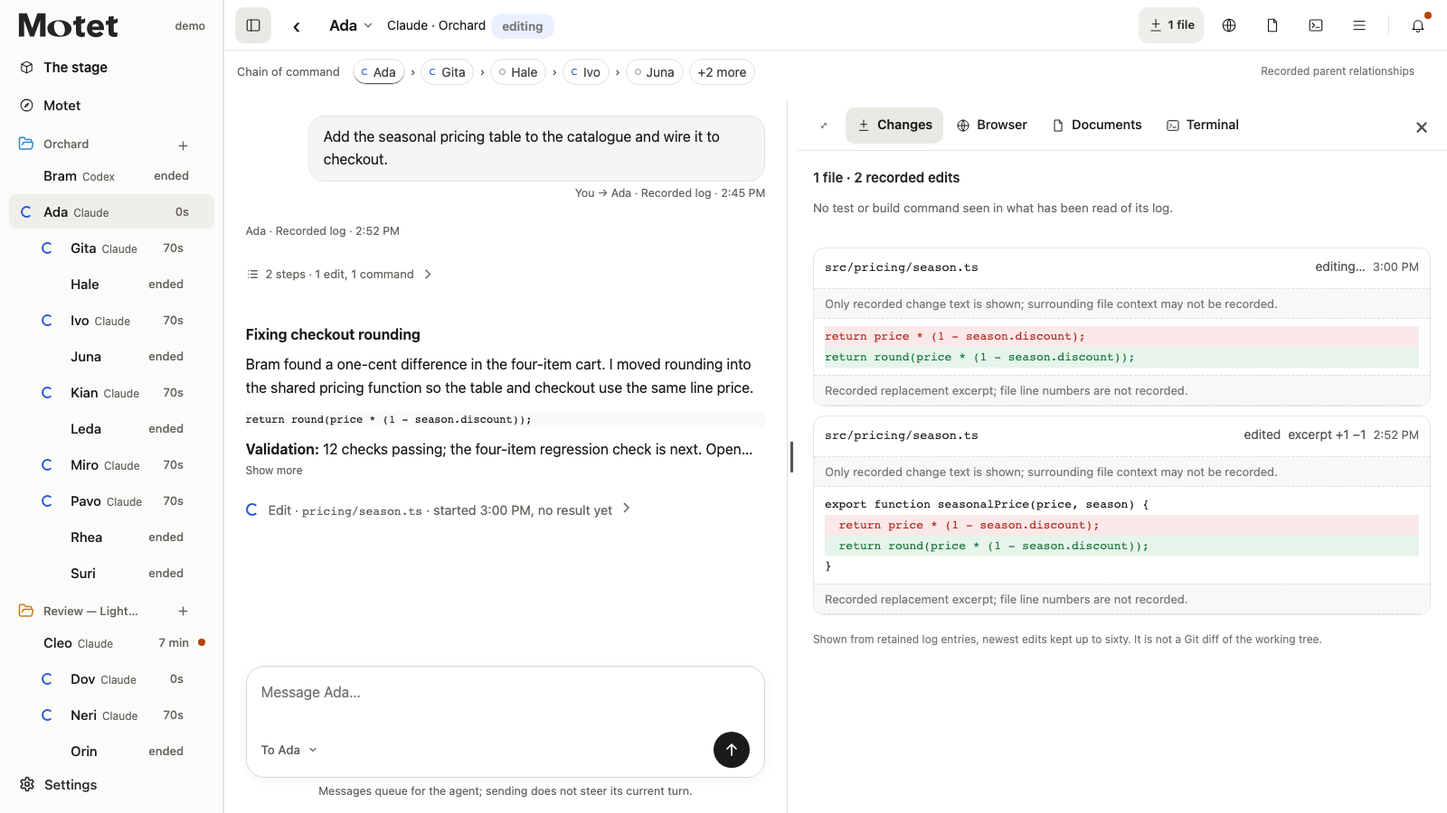
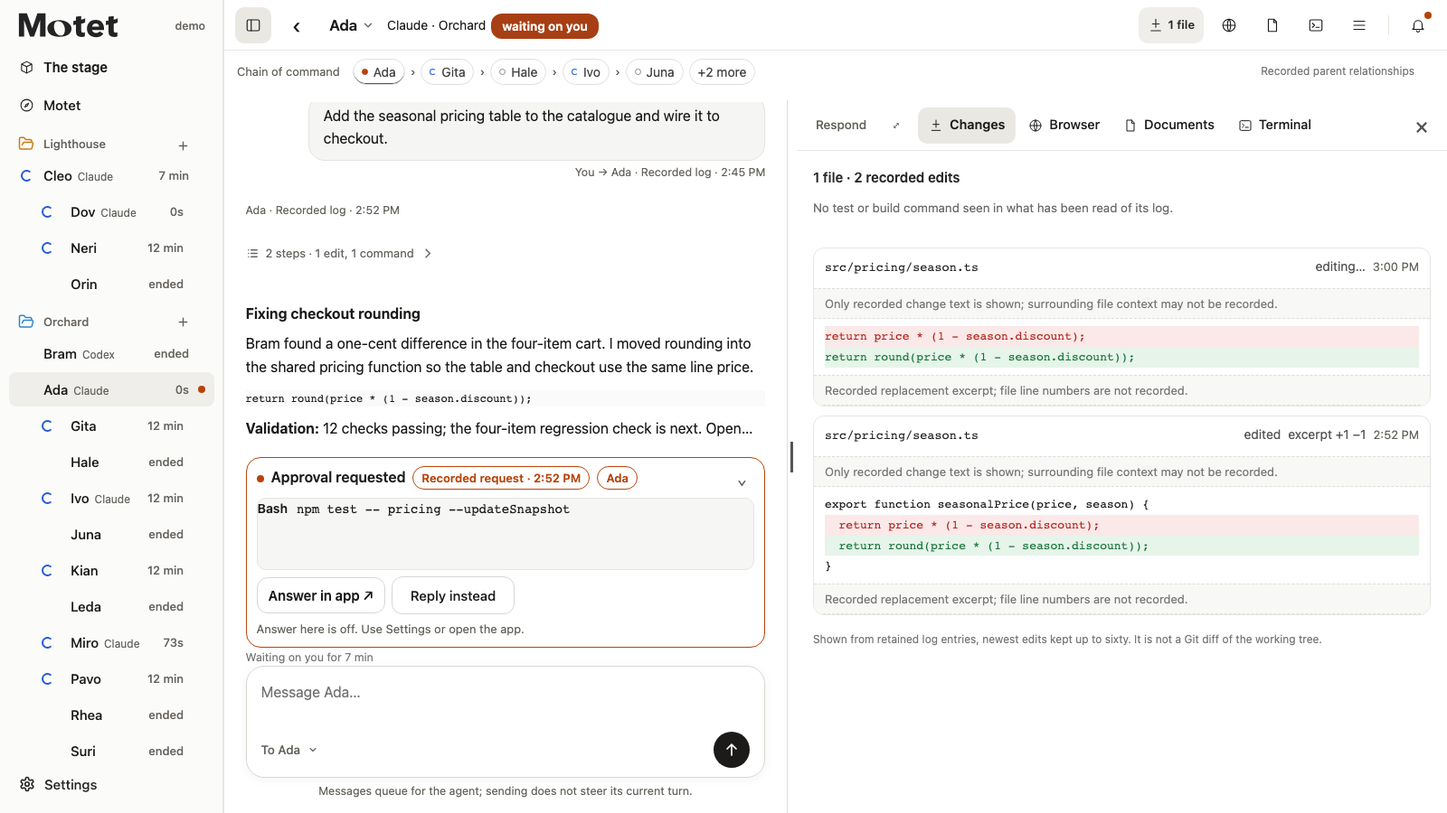
Keep demo shift evidence and move pricing approval to Ada

diff --git a/src/web/index.html b/src/web/index.html
@@ -3061,13 +3061,13 @@ function permissionDispatch(a,p,allow){if(typeof workspaceManagedLegacyAllowed==
       if(DEMO){const now=()=>Date.now()/1000, H=o=>handle(Object.assign({agent:id,ts:now(),seq:++DSEQ},o)), after=(ms,f)=>setTimeout(()=>{f(); render()},ms);      /* numbered from the same counter as the demo's history, so the Officer's chips can cite these too */      /* nothing leaves the page: the request ends here and the fictional agent carries on for a while */
         note((allow?'Allowed':'Denied')+' from here'); render();
         after(600,()=>{H({kind:'perm_end',pid:p.pid,how:(allow?'allowed':'denied')+' from the stage'});
-          if(allow) H({kind:'run',id:'c9',cmd:'rm -rf build/ && make nightly ARCH=arm64 CRC=soft',why:'rebuild with the soft CRC path'});
-          else{H({kind:'say',text:'Understood, I will not clear the build directory. I will try an out-of-tree build in /tmp instead and report back.'}); H({kind:'turn_end'})}});
+          if(allow) H({kind:'run',id:'a-permission-check',cmd:'npm test -- pricing --updateSnapshot',why:'refresh the seasonal pricing snapshot'});
+          else{H({kind:'say',text:'Understood, I will leave the pricing snapshots unchanged and report the pending four-item regression check for review.'}); H({kind:'turn_end'})}});
         if(allow){
-          after(4000,()=>{H({kind:'result',id:'c9',text:'…\nlinking nightly (arm64, CRC=soft)\nok'}); H({kind:'say',text:'Linked. The nightly builds on arm64 with CRC=soft. Now making that the default for arm64 targets so the fast path is only used where the symbol exists.'})});
-          after(7000,()=>H({kind:'edit',id:'c10',path:'/Users/demo/Projects/Lighthouse/Makefile',before:'CRC ?= hw',after:'CRC ?= $(if $(filter arm64,$(ARCH)),auto,hw)'}));
-          after(9500,()=>{H({kind:'result',id:'c10',text:'ok'}); H({kind:'run',id:'c11',cmd:'make nightly ARCH=arm64',why:'confirm the default links'})});
-          after(13000,()=>{H({kind:'result',id:'c11',text:'linking nightly (arm64, CRC=auto)\nok'}); H({kind:'say',text:'Done. arm64 now defaults to CRC=auto and the nightly links cleanly; the diff is one line in the Makefile. Ready for a pull request when you are.'}); H({kind:'turn_end'})});
+          after(4000,()=>{H({kind:'result',id:'a-permission-check',text:'12 passing, 1 pending; seasonal pricing snapshot refreshed'}); H({kind:'say',text:'The pricing snapshot now records $67.96. I am enabling the pending four-item regression check before verifying the suite again.'})});
+          after(7000,()=>H({kind:'edit',id:'a-permission-enable',path:'/Users/demo/Projects/Orchard/test/pricing.test.ts',before:"it.skip('four discounted items', checkCart);",after:"it('four discounted items', checkCart);"}));
+          after(9500,()=>{H({kind:'result',id:'a-permission-enable',text:'Enabled the four-item regression check.'}); H({kind:'run',id:'a-permission-verify',cmd:'npm test -- pricing',why:'verify the enabled pricing regression'})});
+          after(13000,()=>{a.demoPricingVerified=true;H({kind:'result',id:'a-permission-verify',text:'13 passing, including the four-item regression check'}); H({kind:'say',text:'The pricing suite passes all 13 checks. Four discounted items total $67.96 in both views. The recorded pricing change is ready for review.'}); H({kind:'turn_end'})});
         }
         return}
       return post('/decide',{pid:p.pid,allow}).then(r=>{if(!r.ok){if(r.status===409||r.status===404)note(r.status===409?'Already answered in another window.':'This request has expired.');else{p.uncertain=true;note('Outcome unknown. Check the app before trying again.')}}}).catch(()=>{p.uncertain=true;note('Outcome unknown. Check the app before trying again.')});
@@ -5890,11 +5890,10 @@ function ofDemoAnswer(q,request){      /* the demo's Officer: four scripted answ
     if(today==='deploy') return {text:"Esme said her migration will run through `alembic upgrade head`. The stage already flags **alembic upgrade** as a deploy (that is your rule), so there is nothing to draft.",cites,actions};
     actions.push({do:'watch_draft',words:'alembic upgrade',label:'deploy'});
     return {text:`Esme said her migration will run through \`alembic upgrade head\`, which the stage would ${today?'flag as '+today:'not flag'} today.\n\nI drafted a rule to flag **alembic upgrade** as a deploy. It is in the Watch panel with a **Keep this rule** button; nothing is saved until you press it.`,cites,actions}}
-  if(/wait|need|ask|permission|\bme\b/.test(low)){needs.forEach(([a])=>cite(a,lastOf(a)));
+  if(/wait|need|ask|permission|\bme\b/.test(low)){needs.forEach(([a,N])=>cite(a,N.perm||lastOf(a)));
     return {text:`## Waiting on you\n${list}\n\nEveryone else is working or finished.`,cites,actions}}
   if(/stuck|slow|hang|fail|wrong/.test(low)){const cleo=who.find(a=>a.name==='Cleo'), dov=who.find(a=>a.name==='Dov'), dot=who.find(a=>a.runtime==='Codex cloud'); [cleo,dov,dot].forEach(a=>a&&cite(a,lastOf(a)));
-    const held=cleo&&Object.keys(cleo.perms||{}).length, st=cleo?cleo.story:[], endedAt=st.findLastIndex(x=>x.t==='wait'&&/^permission: /.test(x.text)), retryAt=st.findLastIndex(x=>x.t==='did'&&x.e.kind==='run'&&/CRC=soft/.test(x.e.cmd)), ended=st[endedAt], retry=st[retryAt];      /* whichever the record says last */
-    const cleoNow=held?'She is waiting on your permission to clear the build folder and retry with `CRC=soft`.':retryAt>endedAt?(cleo.calls&&cleo.calls[retry.e.id]?'You allowed the retry; `make nightly ARCH=arm64 CRC=soft` is running now.':retry.e.err?'You allowed the retry and it failed too.':'You allowed the retry; it ran, and the log records no error.'):ended?(/denied/.test(ended.text)?'You denied the clean rebuild; she said she would try an out-of-tree build instead.':'You allowed it; what came next is not recorded yet.'):'Her request ended; what came next is not recorded yet.';
+    const cleoNow='She is investigating the feature guard and configure probe. `CRC=soft` is a proposed fallback; no successful rebuild is recorded.';
     const dotRun=dot&&[...dot.story].reverse().find(x=>x.t==='did'&&x.e.kind==='run'), dotOpen=dotRun&&dot.calls&&dot.calls[dotRun.e.id];
     return {text:`Nothing is stuck. One thing **failed**:\n\n- **Cleo**'s \`make nightly ARCH=arm64\` ended with a linker error (\`_crc32_hw\` missing). ${cleoNow}\n\nTwo things are *long*, not stuck:\n\n1. **Dov** has been reading nightly logs for Cleo${dov?' ('+agoW(dov.story[0]?dov.story[0].ts:nowS).replace(' ago','')+' so far)':''}.\n2. **Codex cloud**'s \`${dotRun?one(dotRun.e.cmd).slice(0,40):'command'}\` ${dotOpen?'is still running, seen in the process list; whether it finished is not recorded here':'was seen in the process list; its outcome is not recorded here'}.`,cites,actions}}
   if(/miss|happen|since|report|away|summary|shift|what/.test(low)){const rows=who.map(a=>{const it=lastOf(a); cite(a,it); return `| **${a.name}** | ${projLabel(proj(a.id))||'—'} | ${words(a,it)} | ${it?agoW(it.ts):'—'} |`}).join('\n');
@@ -5918,7 +5917,6 @@ function demo(){
   setInterval(()=>{HEALTH.at=now(); HEALTH.now=now(); HEALTH.scan=now()},3000);
   const tag=document.createElement('span'); tag.id='demoTag'; tag.textContent='DEMO · synthetic agents · nothing here is real'; $('#brand').after(tag);
   const P={orchard:'/Users/demo/Projects/Orchard',lighthouse:'/Users/demo/Projects/Lighthouse',tidewater:'/Users/demo/Projects/Tidewater'};
-  SNAMES.Lighthouse='Review — Lighthouse'; // A fictional display name; keep the build folder and history intact.
   const ag=(id,o)=>handle(Object.assign({kind:'agent',agent:id,ts:t,started:o.started||t},o));
   const ev=(id,o)=>handle(Object.assign({agent:id,ts:t,seq:++DSEQ},o));
   /* the fleet */
@@ -5950,10 +5948,11 @@ function demo(){
   const historyAt=t;
   for(const [name,parent,task,goal,file,result,summary,ended] of children){
     const id='c:demo-'+name.toLowerCase(),owner=parent==='cleo'?P.lighthouse:parent==='esme'||parent==='fen'?P.tidewater:P.orchard;
-    t=now()-75;
+    t=now()-780; // Routine history precedes the core shift facts in the bounded evidence window.
     ag(id,{name,runtime:'Claude',model:'claude-sonnet-5-5',cwd:owner,parent:(parent==='bram'||parent==='esme'?'x:':'c:')+'demo-'+parent,sub:true,task,goal,ctx:17000});
     ev(id,{kind:'user',text:goal});
     ev(id,{kind:'read',id:'sample-'+name,path:owner+'/'+file}); t+=3;
+    if(name==='Leda'||name==='Miro') t=now()-75; // These findings follow Ada's recorded rounding fix.
     ev(id,{kind:'result',id:'sample-'+name,text:result}); t+=2;
     ev(id,{kind:'say',text:summary});
     if(ended) ev(id,{kind:'turn_end'});
@@ -5977,11 +5976,11 @@ function demo(){
   ev('c:demo-cleo',{kind:'say',text:'The nightly fails at link time on arm64: _crc32_hw is missing. I will have a sub-agent find the first run that failed while I check whether the crc32 fast path was switched on recently.'}); t+=3;
   ev('c:demo-cleo',{kind:'spawn',id:'c2',name:'log search'}); ev('c:demo-dov',{kind:'user',text:'Search the build logs for the first arm64 failure and report the line.'}); t+=3;
   ev('c:demo-dov',{kind:'read',id:'d1',path:'/Users/demo/Projects/Lighthouse/build/nightly-2026-10-05.log'}); t+=4; ev('c:demo-dov',{kind:'result',id:'d1',text:'…'}); t+=10;
-  ev('c:demo-cleo',{kind:'say',text:'The symbol comes from the crc32 fast path; building with CRC=soft should link. I need to clear the build directory first, which is why I am asking before I run it.'}); t+=2;
-  ev('c:demo-cleo',{kind:'perm',pid:'demo-c3',tool:'Bash',text:'rm -rf build/ && make nightly ARCH=arm64 CRC=soft'});      /* a held request: with the switch on, Allow and Deny are shown at the desk and answered on the page */
+  ev('c:demo-cleo',{kind:'say',text:'The symbol comes from the crc32 fast path. CRC=soft is a candidate fallback. I am comparing the feature guard with the configure probe before choosing a fix.'}); t+=2;
   ev('c:demo-ada',{kind:'edit',id:'a-seed',path:P.orchard+'/src/pricing/season.ts',before:'export function seasonalPrice(price, season) {\n  return price * (1 - season.discount);\n}',after:'export function seasonalPrice(price, season) {\n  return round(price * (1 - season.discount));\n}'}); t+=3; ev('c:demo-ada',{kind:'result',id:'a-seed',text:'Updated shared seasonal pricing function.'}); t+=2;
   ev('c:demo-ada',{kind:'run',id:'a0',cmd:'npm test -- pricing',why:'run the pricing tests'}); t+=12; ev('c:demo-ada',{kind:'result',id:'a0',text:'12 passing, 1 pending'}); t+=5;
   ev('c:demo-ada',{kind:'say',text:'## Fixing checkout rounding\n\nBram found a one-cent difference in the four-item cart. I moved rounding into the shared pricing function so the table and checkout use the same line price.\n\n```ts\nreturn round(price * (1 - season.discount));\n```\n\n**Validation:** 12 checks passing; the four-item regression check is next. Open **Work → Changes** to inspect the recorded edit.'}); t+=4;
+  ev('c:demo-ada',{kind:'perm',pid:'demo-a3',tool:'Bash',text:'npm test -- pricing --updateSnapshot'});      /* a held request: answers stay on this fictional page */
   // Keep the default demo evidence stable. The Steps preview adds a longer fictional run.
   if(/[?&]steps=preview(?:&|$)/.test(location.search)){
     ev('c:demo-ada',{kind:'web',id:'a-web',q:'rounding half-cent values'}); t+=1;
@@ -6000,10 +5999,11 @@ function demo(){
   let n=0; const files=['src/pricing/table.ts','src/pricing/season.ts','src/checkout/total.ts','test/pricing.test.ts'], logs=['nightly-2026-10-05.log','nightly-2026-10-04.log','nightly-2026-10-03.log'];
   const ADA=['The shared `season.ts` edit is recorded. Next I am checking the table and checkout callers.','The pending test was the four-item cart. Running the pricing suite again with the per-line rounding.','Thirteen passing. Next: wire the table into the checkout total so the cart uses the rounded line prices.','## Pricing checks pass\n\n**13 passing**, including the four-item regression check.\n\n- The table and checkout share per-line rounding.\n- Four discounted items total **$67.96** in both views.\n- I am checking the remaining callers before handing this back for review.'];
   const tick=()=>{t=now(); n++;
-    if(n%4===3&&(n/4|0)<ADA.length){ev('c:demo-ada',{kind:'say',text:ADA[n/4|0]})}      /* narration as it unfolds: a synthetic line every fourth tick, each once */
+    const verified=!!A['c:demo-ada']?.demoPricingVerified;
+    if(n%4===3&&(n/4|0)<ADA.length){ev('c:demo-ada',{kind:'say',text:verified?ADA[n/4|0]:'The pricing suite records 12 passing and 1 pending. I am checking the existing table and checkout callers without updating the snapshots.'})}      /* progress follows the approved verification result */
     if(n===7){ev('c:demo-dov',{kind:'say',text:'The 04 run linked fine, so the break is between the 03 and 05 runs. Checking what changed in the crc32 build flags between them.'})}
     if(n%2){ev('c:demo-ada',{kind:n%4===1?'edit':'run',id:'a'+n,path:'/Users/demo/Projects/Orchard/'+files[n%4],cmd:'npm test -- pricing',why:n%4===1?'':'run the pricing tests',before:'return price * (1 - season.discount);',after:'return round(price * (1 - season.discount));'})}
-    else{ev('c:demo-ada',{kind:'result',id:'a'+(n-1),text:n%4===2?'ok':'13 passing'})}
+    else{ev('c:demo-ada',{kind:'result',id:'a'+(n-1),text:n%4===2?'ok':verified?'13 passing':'12 passing, 1 pending'})}
     if(n%3===0){ev('c:demo-dov',{kind:'read',id:'d'+n,path:'/Users/demo/Projects/Lighthouse/build/'+logs[(n/3|0)%3]})} else if(n%3===1){ev('c:demo-dov',{kind:'result',id:'d'+(n-1),text:'… [arm64] ld: symbol not found: _crc32_hw'})}
     if(n%9===4){if(n===4) ev('c:demo-dov',{kind:'say',text:'First arm64 failure is in nightly-2026-10-03.log line 1142: ld: symbol not found: _crc32_hw. It appears after the crc32 fast path was enabled.'}); pulse('c:demo-dov','c:demo-cleo','reported back')}      /* said once; the hand-off pulse recurs */
   };

diff --git a/tests/test_page.js b/tests/test_page.js
@@ -4171,8 +4171,8 @@ let quietProofDeadline;(async()=>{
 {
   const assert=require('assert/strict'),start=html.indexOf('function demo(){'),end=html.indexOf('/* Workspace shell helpers:',start),demoSource=html.slice(start,end);
   const expected=['Ada','Bram','Cleo','Dov','Esme','Codex cloud','Fen','Gita','Hale','Ivo','Juna','Kian','Leda','Miro','Neri','Orin','Pavo','Rhea','Suri','Tavi','Uma','Vero'];
-  function verify(source){
-    const events=[],intervals=[],forbidden=()=>{throw Error('demo attempted a live effect')},c={Date:class extends Date{static now(){return 1800000000000}},DSEQ:0,location:{search:'?demo'},SNAMES:{},document:{createElement:()=>({})},$:()=>({after(){}}),paintWatch(){},lock(){},handle:e=>events.push(e),setInterval:(f,ms)=>intervals.push({f,ms}),setTimeout:forbidden,fetch:forbidden,XMLHttpRequest:forbidden,WebSocket:forbidden,EventSource:forbidden,Notification:forbidden,navigator:new Proxy({},{get:forbidden})};
+  function verify(source,storyHtml=html){
+    const events=[],intervals=[],forbidden=()=>{throw Error('demo attempted a live effect')},c={Date:class extends Date{static now(){return 1800000000000}},DSEQ:0,location:{search:'?demo'},SNAMES:{},document:{createElement:()=>({})},$:()=>({after(){}}),paintWatch(){},lock(){},A:{},handle:e=>{events.push(e);if(e.kind==='agent')c.A[e.agent]={...e}},setInterval:(f,ms)=>intervals.push({f,ms}),setTimeout:forbidden,fetch:forbidden,XMLHttpRequest:forbidden,WebSocket:forbidden,EventSource:forbidden,Notification:forbidden,navigator:new Proxy({},{get:forbidden})};
     vm.runInNewContext(source+';demo();',c);
     const agents=events.filter(e=>e.kind==='agent'),byId=new Map(agents.map(a=>[a.agent,a])),roots=agents.filter(a=>!a.parent),kids=agents.filter(a=>a.parent);
     assert.equal(agents.length,22);assert.equal(byId.size,22);assert.equal(roots.length,6);assert.equal(kids.length,16);
@@ -4194,21 +4194,53 @@ let quietProofDeadline;(async()=>{
     const ended=new Set(events.filter(e=>e.kind==='turn_end').map(e=>e.agent));
     assert.deepEqual(agents.filter(a=>ended.has(a.agent)).map(a=>a.name).sort(),['Bram','Esme','Fen','Hale','Juna','Leda','Orin','Rhea','Suri','Uma']);
     assert.equal(agents.length-ended.size,12);assert.equal(agents.filter(a=>a.observed).length,1);
-    assert.equal(c.SNAMES.Lighthouse,'Review — Lighthouse');
+    assert.equal(c.SNAMES.Lighthouse,undefined);
     assert.equal(c.HEALTH.tails,21);assert.equal(events.filter(e=>e.kind==='health').at(-1).tails,21);
     assert.equal(events.filter(e=>e.error).length,1,'Cleo remains the sole recorded failure');
-    assert.deepEqual(events.filter(e=>e.kind==='perm').map(e=>e.agent),['c:demo-cleo']);
+    assert.deepEqual(events.filter(e=>e.kind==='perm').map(e=>e.agent),['c:demo-ada']);
     assert.equal(events.filter(e=>e.kind==='say'&&/\?/.test(e.text)).length,1,'Esme remains the sole possible decision request');
     const A={};for(const a of agents)A[a.agent]={...a,id:a.agent,story:[],calls:{},perms:{},asks:{},turn:'in'};
     for(const e of events){const a=A[e.agent];if(!a||e.kind==='agent')continue;if(e.kind==='result'){const it=a.story.find(x=>x.e?.id===e.id);if(it){it.e.err=e.error;it.e.unknown=e.unknown;}delete a.calls[e.id];}else if(e.kind==='say'){a.said={text:e.text,ts:e.ts};a.story.push({t:'say',...e});}else if(e.kind==='turn_end')a.turn='ended';else if(e.kind==='perm'){a.perms[e.pid]=e;a.story.push({t:'wait',text:'permission: '+e.text,...e});}else if(e.kind!=='user'){a.story.push({t:'did',e,ts:e.ts,seq:e.seq});if(e.id)a.calls[e.id]=e;}}
-    const answerSource=html.slice(html.indexOf('function ofDemoAnswer('),html.indexOf('\nfunction ofToggle(',html.indexOf('function ofDemoAnswer(')));
-    const answer=vm.runInNewContext(answerSource+';ofDemoAnswer',{A,order:agents.map(a=>a.agent),Date:c.Date,one:s=>String(s).replace(/\s+/g,' '),plain:String,did:e=>e.kind+' '+(e.path||''),clock:String,proj:id=>A[id].cwd.split('/').at(-1),projLabel:String,judgeLocal:()=>({command:''}),need:a=>Object.keys(a.perms).length?{sure:true,kind:'Approve',text:Object.values(a.perms)[0].text}:a.name==='Esme'?{sure:false,kind:'Decide',text:a.said.text}:null});
+    const answerSource=storyHtml.slice(storyHtml.indexOf('function ofDemoAnswer('),storyHtml.indexOf('\nfunction ofToggle(',storyHtml.indexOf('function ofDemoAnswer(')));
+    const answer=vm.runInNewContext(answerSource+';ofDemoAnswer',{A,order:agents.map(a=>a.agent),Date:c.Date,one:s=>String(s).replace(/\s+/g,' '),plain:String,did:e=>e.kind+' '+(e.path||''),clock:String,proj:id=>A[id].cwd.split('/').at(-1),projLabel:String,judgeLocal:()=>({command:''}),need:a=>Object.keys(a.perms).length?{sure:true,kind:'Approve',text:Object.values(a.perms)[0].text,perm:Object.values(a.perms)[0]}:a.name==='Esme'?{sure:false,kind:'Decide',text:a.said.text}:null});
     const report=answer('What did I miss?');for(const name of expected)assert.ok(report.text.includes('**'+name+'**'));assert.ok(report.cites.length<=12);
-    const stuck=answer('Is anything stuck?');assert.match(stuck.text,/One thing \*\*failed\*\*/);assert.match(stuck.text,/outcome|whether it finished/);assert.match(stuck.text,/waiting on your permission/);
-    const waiting=answer('Who is waiting on me?');assert.match(waiting.text,/\*\*Cleo\*\*/);assert.match(waiting.text,/\*\*Esme\*\* probably/);assert.equal((waiting.text.match(/- \[ \]/g)||[]).length,2);
+    const stuck=answer('Is anything stuck?');assert.match(stuck.text,/One thing \*\*failed\*\*/);assert.match(stuck.text,/outcome|whether it finished/);assert.match(stuck.text,/proposed fallback/);assert.doesNotMatch(stuck.text,/waiting on your permission|Her request ended|You allowed the retry/);
+    const waiting=answer('Who is waiting on me?');assert.match(waiting.text,/\*\*Ada\*\*/);assert.doesNotMatch(waiting.text,/\*\*Cleo\*\*/);assert.equal(waiting.cites.find(c=>c.aid==='c:demo-ada').n,events.find(e=>e.pid==='demo-a3').seq,'held permission evidence survives later Ada edits');assert.match(waiting.text,/\*\*Esme\*\* probably/);assert.equal((waiting.text.match(/- \[ \]/g)||[]).length,2);
+    const permission=events.find(e=>e.kind==='perm');assert.equal(permission.pid,'demo-a3');assert.equal(permission.text,'npm test -- pricing --updateSnapshot');
+    const dispatch=storyHtml.slice(storyHtml.indexOf('function permissionDispatch('),storyHtml.indexOf('/* end permission dispatch */'));
+    for(const allow of [false,true]){
+      const history=[],timers=[],p={...permission},a={id:permission.agent,perms:{[p.pid]:p}},ctx={DEMO:true,DSEQ:999,Date:c.Date,handle:e=>history.push(e),render(){},need:()=>({perm:p}),setTimeout:(f,ms)=>timers.push({f,ms}),post:forbidden};
+      vm.runInNewContext(dispatch+';permissionDispatch',ctx)(a,p,allow);
+      assert.deepEqual(timers.map(t=>t.ms),allow?[600,4000,7000,9500,13000]:[600]);
+      for(const timer of timers)timer.f();
+      assert.equal(history[0].kind,'perm_end');assert.equal(history[0].pid,'demo-a3');assert.equal(history[0].how,(allow?'allowed':'denied')+' from the stage');assert.ok(history.every(e=>e.agent==='c:demo-ada'));
+      assert.equal(history.at(-1).kind,'turn_end');assert.doesNotMatch(JSON.stringify(history),/Lighthouse|CRC=|make nightly|clear the build/);
+      if(allow){assert.deepEqual(history.filter(e=>e.kind==='run').map(e=>e.cmd),['npm test -- pricing --updateSnapshot','npm test -- pricing']);assert.equal(history.find(e=>e.kind==='edit').path,'/Users/demo/Projects/Orchard/test/pricing.test.ts');assert.ok(history.some(e=>e.kind==='result'&&/13 passing/.test(e.text)));}
+      else{assert.ok(!history.some(e=>['run','edit'].includes(e.kind)));assert.match(history.find(e=>e.kind==='say').text,/snapshots unchanged/);}
+    }
+    for(const decision of [null,false,true]){
+      const timeline=[],scheduled=[],loops=[],ctx={...c,A:{},DSEQ:0,DEMO:true,render(){},pulse(){},setInterval:(f,ms)=>loops.push({f,ms}),setTimeout:(f,ms)=>scheduled.push({f,ms}),post:forbidden};
+      ctx.handle=e=>{timeline.push(e);if(e.kind==='agent')ctx.A[e.agent]={...e,id:e.agent,perms:{}};else if(e.kind==='perm')ctx.A[e.agent].perms[e.pid]=e;else if(e.kind==='perm_end')delete ctx.A[e.agent].perms[e.pid];};
+      ctx.need=a=>({perm:Object.values(a.perms)[0]});
+      vm.runInNewContext(source+'\n'+dispatch+';demo();',ctx);
+      const tick=loops.find(x=>x.ms===3500).f,ada=ctx.A['c:demo-ada'];
+      if(decision!==null)ctx.permissionDispatch(ada,ada.perms['demo-a3'],decision);
+      for(const ms of [600,3500,4000,7000,9500,10500,13000,14000,17500,21000,24500,28000]){
+        for(const task of scheduled.filter(x=>x.ms===ms))task.f();
+        if([3500,7000,10500,14000,17500,21000,24500,28000].includes(ms))tick();
+        const verified=decision===true&&ms>=13000;
+        assert.equal(!!ada.demoPricingVerified,verified,'verification flag follows the successful13s result');
+        const claims=timeline.filter(e=>e.agent==='c:demo-ada'&&e.text&&/13 passing|Thirteen passing|all 13|Pricing checks pass|snapshot.*(?:refreshed|now records)/i.test(e.text));
+        if(!verified&&!(decision===true&&ms>=4000))assert.equal(claims.length,0,'held/denied ticks cannot invent successful pricing or snapshots');
+        if(!verified)assert.ok(!timeline.some(e=>e.agent==='c:demo-ada'&&e.text&&/13 passing|Thirteen passing|all 13|Pricing checks pass/i.test(e.text)),'thirteen checks require approved verification');
+      }
+      if(decision!==true)assert.ok(!timeline.some(e=>e.agent==='c:demo-ada'&&e.text&&/13 passing|Thirteen passing|all 13|snapshot.*(?:refreshed|now records)/i.test(e.text)));
+      else{const verifiedAt=timeline.findIndex(e=>e.id==='a-permission-verify'&&e.kind==='result');assert.ok(verifiedAt>=0);assert.ok(timeline.slice(verifiedAt).some(e=>e.agent==='c:demo-ada'&&e.text==='13 passing'));assert.ok(!timeline.slice(verifiedAt+1).some(e=>e.agent==='c:demo-ada'&&e.kind==='result'&&e.text==='12 passing, 1 pending'));}
+    }
     const rule=answer('Draft a Watch rule');assert.equal(rule.actions[0].words,'alembic upgrade');assert.match(rule.text,/nothing is saved/);
   }
   verify(demoSource);
-  for(const [from,to] of [['tails:21','tails:22'],['"Gita", "ada"','"Gita", "missing"'],['"Vero", "fen"','"Gita", "fen"']]){assert.ok(demoSource.includes(from));let caught=false;try{verify(demoSource.replaceAll(from,to))}catch{caught=true}assert.ok(caught,'cast mutation detected: '+from);}
-  console.log('ok full fictional demo: 22 IDs, hierarchy, central families, distinct histories, states, health and four scripted answers; three causal mutations');
+  for(const [from,to] of [["const verified=!!A['c:demo-ada']?.demoPricingVerified;",'const verified=true;'],['tails:21','tails:22'],['"Gita", "ada"','"Gita", "missing"'],['"Vero", "fen"','"Gita", "fen"']]){assert.ok(demoSource.includes(from));let caught=false;try{verify(demoSource.replaceAll(from,to))}catch{caught=true}assert.ok(caught,'cast mutation detected: '+from);}
+  for(const [from,to] of [["a.demoPricingVerified=true;H({","H({"],['cite(a,N.perm||lastOf(a))','cite(a,lastOf(a))'],["cmd:'npm test -- pricing --updateSnapshot',why:","cmd:'make nightly ARCH=arm64',why:"]]){assert.ok(html.includes(from));let caught=false;try{verify(demoSource,html.replace(from,to))}catch{caught=true}assert.ok(caught,'permission story mutation detected: '+from);}
+  console.log('ok full fictional demo: 22 IDs, hierarchy, central families, distinct histories, states, health and four scripted answers; seven causal mutations');
 }

diff --git a/tests/test_officer_evals.py b/tests/test_officer_evals.py
@@ -72,10 +72,17 @@ class OfficerEvidenceEvals(unittest.TestCase):
     def test_real_demo_export_is_deterministic_and_has_no_scripted_answers(self):
         self.assertEqual(self.seed, demo_fixture())
         names = [row['name'] for row in self.seed['records'] if row['kind'] == 'agent']
-        self.assertEqual(names, ['Ada', 'Bram', 'Cleo', 'Dov', 'Esme', 'Codex cloud', 'Fen'])
-        self.assertEqual(len(self.seed['records']), 50)   # 49 on main, plus the demo's idle-time health record
+        self.assertEqual(names, ['Codex cloud', 'Bram', 'Ada', 'Cleo', 'Dov', 'Esme', 'Fen',
+                                 'Gita', 'Hale', 'Ivo', 'Juna', 'Kian', 'Leda', 'Miro',
+                                 'Neri', 'Orin', 'Pavo', 'Rhea', 'Suri', 'Tavi', 'Uma', 'Vero'])
+        self.assertEqual(len(self.seed['records']), 132)   # 22 agents, 109 sequenced events, one health record
         self.assertTrue(any(row.get('kind') == 'health' and row.get('idle_ready') is True for row in self.seed['records']))
-        self.assertEqual(max(row.get('seq', 0) for row in self.seed['records']), 42)
+        self.assertEqual(max(row.get('seq', 0) for row in self.seed['records']), 109)
+        edit = next(row for row in self.seed['records'] if row.get('id') == 'a-seed' and row['kind'] == 'edit')
+        for name in ('Leda', 'Miro'):
+            report = next(row for row in self.seed['records']
+                          if row.get('agent') == 'c:demo-' + name.lower() and row['kind'] == 'say')
+            self.assertGreaterEqual(report['ts'], edit['ts'], name + ' verifies the recorded fix afterward')
         self.assertFalse(any(row.get('kind') == 'officer_answer' for row in self.seed['records']))
 
     def test_live_runner_rejects_key_shaped_model_before_call_or_output(self):
@@ -114,13 +121,38 @@ class OfficerEvidenceEvals(unittest.TestCase):
         self.assertIn('only new ones', text)
         agents, _ = self.tool('list_agents')
         by_name = {a['name']: a for a in agents['agents']}
-        self.assertTrue(by_name['Cleo']['waiting_for_owner_permission'])
+        self.assertTrue(by_name['Ada']['waiting_for_owner_permission'])
+        self.assertFalse(by_name['Cleo']['waiting_for_owner_permission'])
         self.assertFalse(by_name['Esme']['waiting_for_owner_permission'])
         self.assertEqual(by_name['Dov']['parent']['how'], 'recorded')
         bram, _ = self.tool('agent_timeline', {'agent': 'Bram', 'limit': 40})
         self.assertTrue(any(s['what'] == 'its turn ended' for s in bram['steps']))
         self.assertTrue(any('read ' in s['what'] for s in bram['steps']))
         self.assertFalse(any('edited ' in s['what'] for s in bram['steps']))
+
+    def test_recent_child_routine_counterfactual_displaces_shift_evidence(self):
+        # Exercise the real latest-60 tool, retaining its limit and the pinned
+        # shift assertion above. Recent routine work really can crowd facts out.
+        before, _ = self.tool('events_since', {'minutes': 60, 'limit': 60})
+        self.assertIn('12 checks passing', json.dumps(before))
+        self.assertTrue(0 < len(before['steps']) <= 60)
+        self.assertIn('the latest 60 are here', before['note'])
+        fixture = copy.deepcopy(self.seed)
+        children = {row['agent'] for row in fixture['records']
+                    if row['kind'] == 'agent' and row.get('parent') and row['name'] != 'Dov'}
+        for row in fixture['records']:
+            if (row.get('agent') in children and row['kind'] != 'agent'
+                    and row['ts'] < self.seed['now'] - 75):
+                row['ts'] += 705   # Move only the routine history from 13 minutes ago to 75 seconds ago.
+        self.assertTrue(all(row.get('ts', 0) <= self.seed['now'] for row in fixture['records']))
+        for child in children:
+            times = [row['ts'] for row in fixture['records'] if row.get('agent') == child]
+            self.assertEqual(times, sorted(times))
+        self.load(fixture)
+        after, _ = self.tool('events_since', {'minutes': 60, 'limit': 60})
+        self.assertTrue(0 < len(after['steps']) <= 60)
+        self.assertIn('the latest 60 are here', after['note'])
+        self.assertNotIn('12 checks passing', json.dumps(after))
 
     def test_synthetic_silence_counterfactual_changes_evidence_not_into_idle(self):
         before, _ = self.tool('events_since', {'minutes': 30})
@@ -185,7 +217,7 @@ class OfficerEvidenceEvals(unittest.TestCase):
         self.assertTrue(draft['queued_for_screen'])
         self.assertIn('do not say it is done', draft['note'])
         self.assertEqual(actions, [{'do': 'draft', 'text': 'Fictional handover draft'}])
-        self.assertIsNone(server.PENDING['demo-c3']['allow'])
+        self.assertIsNone(server.PENDING['demo-a3']['allow'])
 
 
 if __name__ == '__main__':

diff --git a/docs/TOUR.md b/docs/TOUR.md
@@ -17,12 +17,12 @@ The [plain address](http://127.0.0.1:8793/) opens Workspace on desktop and phone
 
 Workspace brings the stage sidebar, notification bell, monitor contents, conversation desks and Settings into one light interface. Stage movement and interactions stay the same. The bottom caption strip is omitted; each agent’s sidebar tooltip carries its caption and recorded or inferred qualifications. Opening the notification bell shows existing requests and recorded alerts. The **Notify me** control remains separate in Settings.
 
-<p align="center"><img src="media/workspace-desk.png" width="1000" alt="Ada's desk in Workspace. The chain of command shows Ada and her fictional children. The conversation on the left contains your pricing request, a folded run of steps, Ada's rounding update and an edit in progress. The Changes panel on the right shows two recorded edits to one file as red and green excerpts."></p>
+<p align="center"><img src="media/workspace-desk.png" width="1000" alt="Ada's desk in Workspace. The chain of command shows Ada and her fictional children. The conversation on the left contains your pricing request, a folded run of steps, Ada's rounding update and an approval card asking to update the pricing snapshots. The Changes panel on the right shows two recorded edits to one file as red and green excerpts, with the latest edit still in progress."></p>
 <p align="center"><sub><b>An agent's desk in Workspace.</b> The conversation on the left, recorded changes on the right. Fictional demo data.</sub></p>
 
 Choose **Motet** in the sidebar for its desk. **Recorded days · UTC** opens retained Motet questions and answers when memory recording has captured them. Saved days are read-only: browsing them makes no model call and cannot retry, apply or send anything. Coverage can be partial, not recorded, expired or unavailable. Return to the current window to continue your conversation; its draft stays in place.
 
-<p align="center"><img src="media/workspace-motet.png" width="1000" alt="Motet's desk in Workspace. Asked Who is waiting on me?, Motet answers with a short list: Cleo wants permission to run a command, and Esme probably asked a question. Under the answer are a link to two pieces of recorded evidence and the note Scripted demo answer, no live agents contacted. A panel on the right lists Watch, Actions, Evidence and Memory."></p>
+<p align="center"><img src="media/workspace-motet.png" width="1000" alt="Motet's desk in Workspace. Asked Who is waiting on me?, Motet answers with a short list: Ada wants permission to update the pricing snapshots, and Esme probably asked a question. Under the answer are a link to two pieces of recorded evidence and the note Scripted demo answer, no live agents contacted. A panel on the right lists Watch, Actions, Evidence and Memory."></p>
 <p align="center"><sub><b>Motet's desk.</b> Ask about the stage and read the answer with the recorded evidence behind it. In the demo the answers are scripted and say so.</sub></p>
 
 See [brand assets](../brand/README.md) for the Motet wordmark and icon. Workspace follows the same provider and permission limits described in [What works with what](PROVIDER_SUPPORT.md).

diff --git a/README.md b/README.md
@@ -36,7 +36,7 @@ Motet is an agent of its own. It follows what each of your agents records, so yo
 
 Motet acts only when you ask. It does not yet act by itself; that is the biggest thing it does not do yet. See [where it is going](#where-motet-is-and-where-it-is-going). A question you send this way is queued for the agent and does not interrupt it. Questions and cues through Motet use your own Anthropic API key.
 
-<p align="center"><img src="docs/media/workspace-motet.png" width="1000" alt="Motet's desk in Workspace. Asked Who is waiting on me?, Motet answers with a short list: Cleo wants permission to run a command, and Esme probably asked a question. Under the answer are a link to two pieces of recorded evidence and the note Scripted demo answer, no live agents contacted. A panel on the right lists Watch, Actions, Evidence and Memory."></p>
+<p align="center"><img src="docs/media/workspace-motet.png" width="1000" alt="Motet's desk in Workspace. Asked Who is waiting on me?, Motet answers with a short list: Ada wants permission to update the pricing snapshots, and Esme probably asked a question. Under the answer are a link to two pieces of recorded evidence and the note Scripted demo answer, no live agents contacted. A panel on the right lists Watch, Actions, Evidence and Memory."></p>
 <p align="center"><sub><b>Motet's desk.</b> Ask about the stage and read the answer with the recorded evidence behind it. In the demo the answers are scripted and say so.</sub></p>
 
 ## The bridge
@@ -61,7 +61,7 @@ When you want to look for yourself, every agent is in view.
 - **Bring a player in.** Message an agent from its desk, hand it a PDF or a picture, or start a fresh Codex chat in a project's folder, including a folder you add yourself.
 - **Catch the wrong note.** A command that looks like a deploy, a push, a delete or a send is flagged as it happens. You choose the words it listens for.
 
-<p align="center"><img src="docs/media/workspace-desk.png" width="1000" alt="Ada's desk in Workspace. The chain of command shows Ada and her fictional children. The conversation on the left contains your pricing request, a folded run of steps, Ada's rounding update and an edit in progress. The Changes panel on the right shows two recorded edits to one file as red and green excerpts."></p>
+<p align="center"><img src="docs/media/workspace-desk.png" width="1000" alt="Ada's desk in Workspace. The chain of command shows Ada and her fictional children. The conversation on the left contains your pricing request, a folded run of steps, Ada's rounding update and an approval card asking to update the pricing snapshots. The Changes panel on the right shows two recorded edits to one file as red and green excerpts, with the latest edit still in progress."></p>
 <p align="center"><sub><b>A desk.</b> The conversation, with the work it produced beside it. Fictional demo data.</sub></p>
 
 ## Bring the subscriptions you already have
